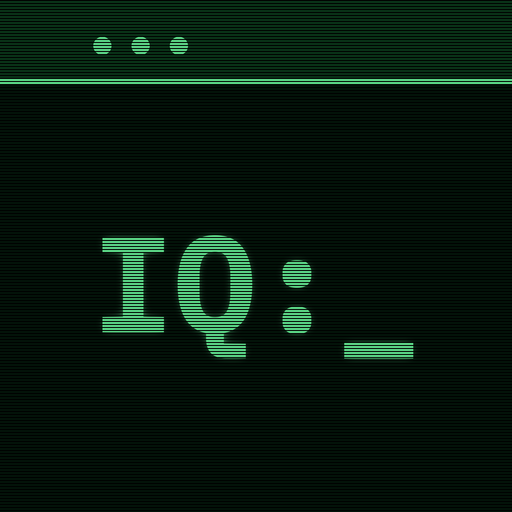
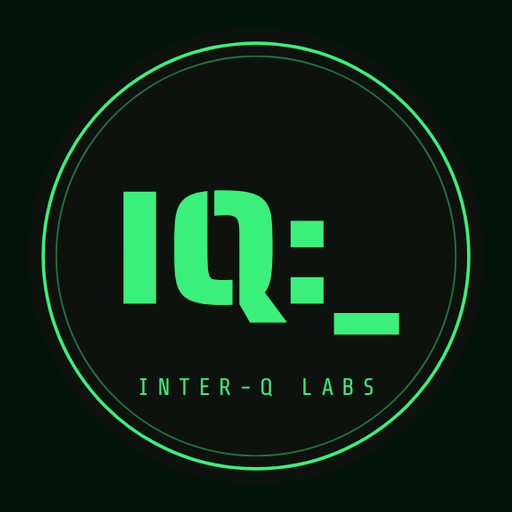
Add files via upload

Changed region(s): [[0.0, 0.0, 1.0, 0.9375], [0.25, 0.7188, 0.4688, 0.7812], [0.5, 0.7188, 0.5312, 0.7812]]

diff --git a/tools/index.html b/tools/index.html
@@ -15,8 +15,8 @@ var IQ_GPS=false; if(!IQ_GPS) document.documentElement.classList.add("no-gps");<
 <meta name="iq-build" content="2026-10-22 09:00">
 <meta name="theme-color" content="#03140a">
 <link rel="icon" type="image/png" sizes="32x32" href="iqkit-32.png?v=2" id="iqFav">
-<link rel="apple-touch-icon" href="iqkit-180.png?v=2">
-<link rel="apple-touch-icon" sizes="512x512" href="iqkit-apple-512.png?v=2">
+<link rel="apple-touch-icon" href="iqkit-180.png?v=3">
+<link rel="apple-touch-icon" sizes="512x512" href="iqkit-apple-512.png?v=3">
 <link rel="icon" type="image/png" sizes="48x48" href="iqkit-48.png?v=2">
 <meta name="mobile-web-app-capable" content="yes">
 <meta name="apple-mobile-web-app-capable" content="yes">

diff --git a/tools/sw.js b/tools/sw.js
@@ -3,7 +3,7 @@
 // background, and the open page is told when a new build has arrived so it can offer a reload.
 // Live feeds and lookups (weather, news, maps, AI sites) always go straight to the network and are never stored.
 // Bump CACHE whenever a file in CORE changes, so installed apps pick up the new copy.
-const CACHE = "iqkit-v8";
+const CACHE = "iqkit-v9";
 const CORE = ["./index.html",   // the page is downloaded once and saved as index.html
   "./manifest.json", "./qrcode.min.js",
   "./iqkit-32.png", "./iqkit-48.png", "./iqkit-180.png", "./iqkit-apple-512.png", "./iqkit-192.png", "./iqkit-512.png", "./iqkit-maskable-512.png"];
